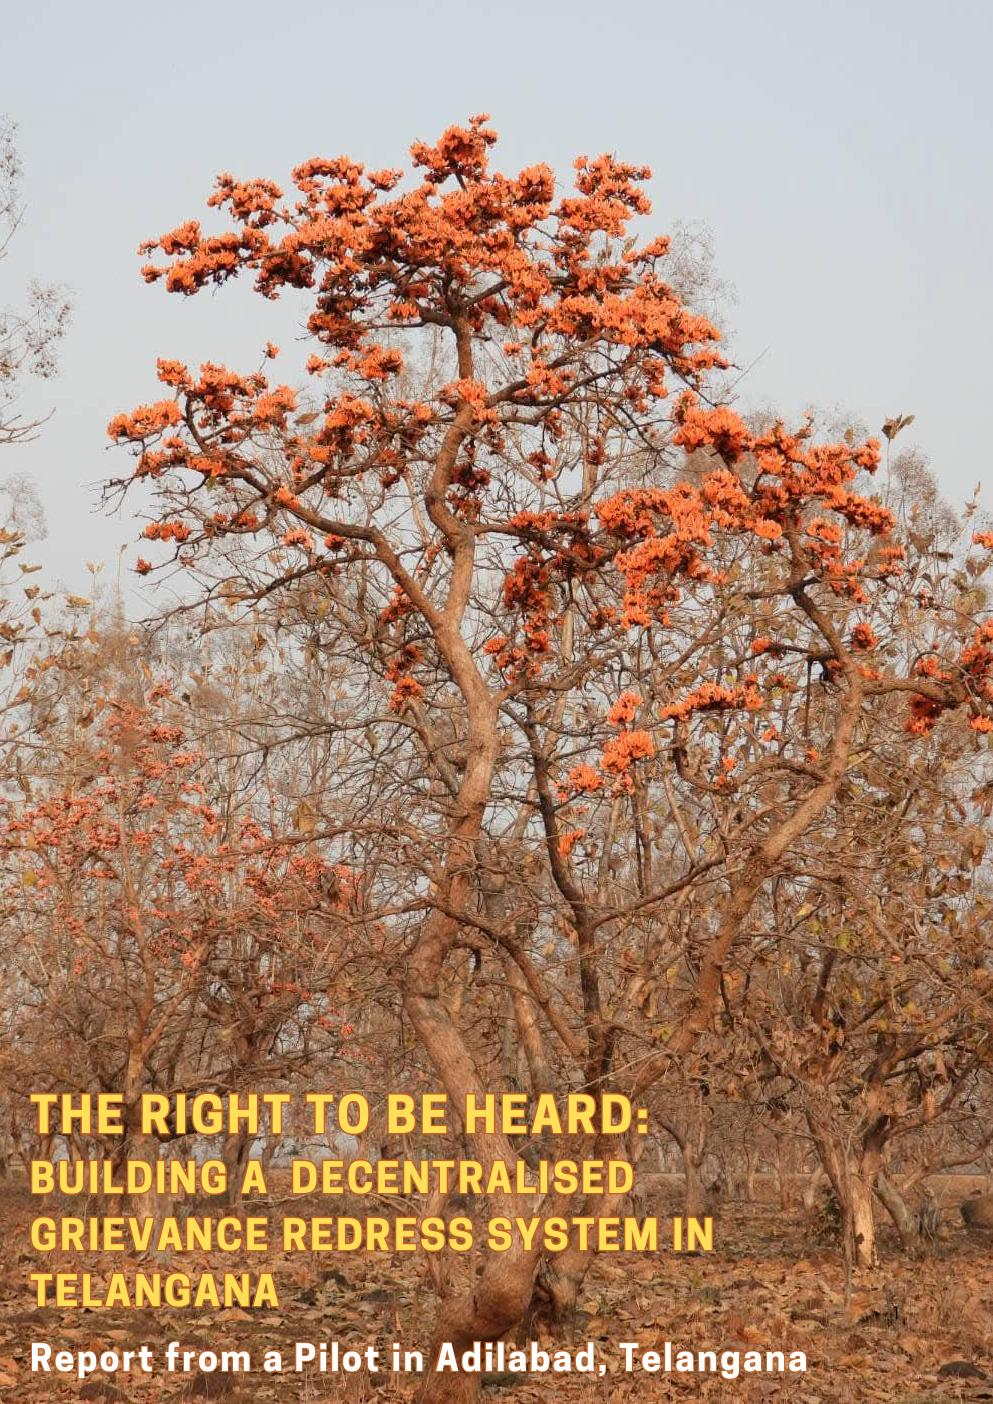
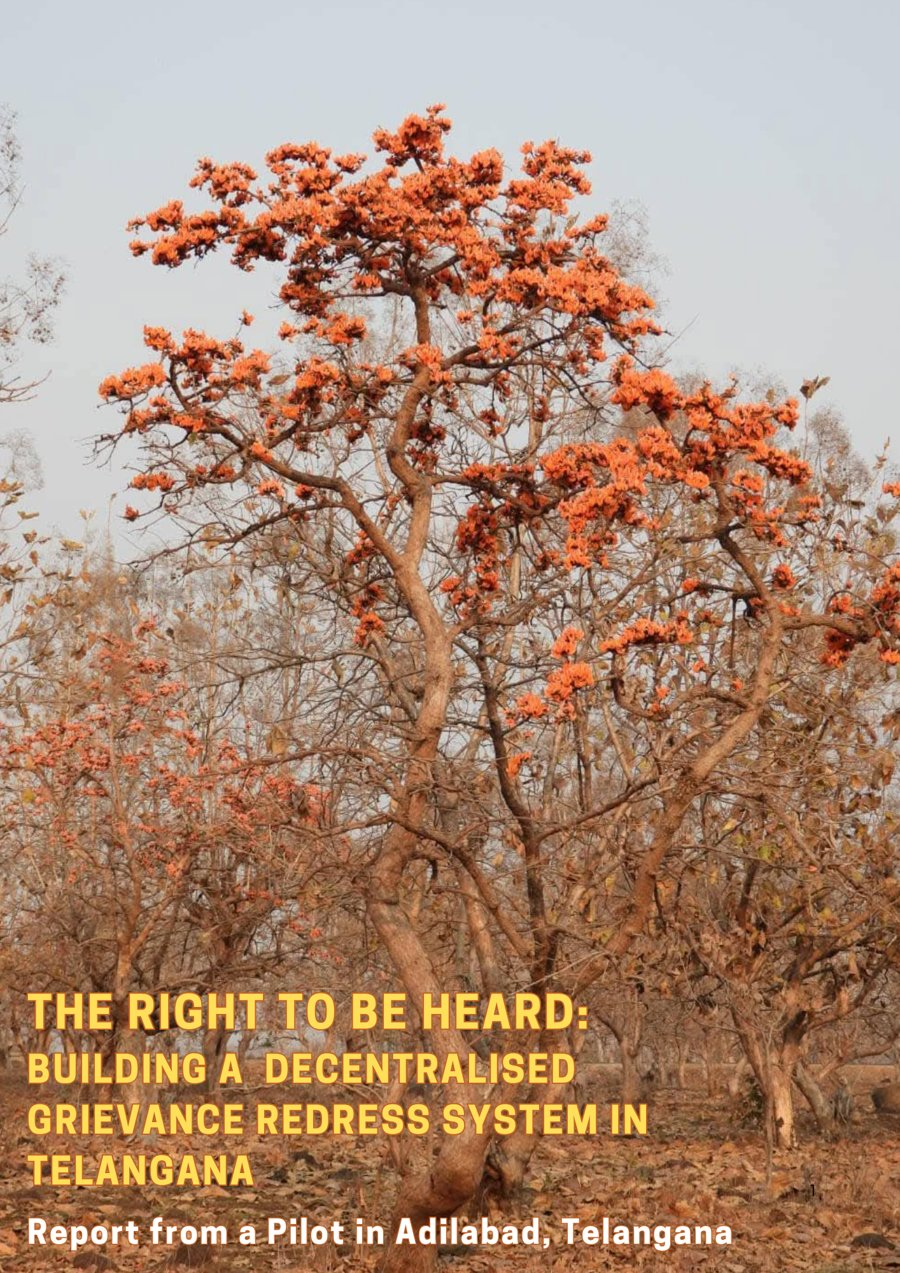
Wire actual documentary film and use higher-resolution cover
- Replace cover thumbnail with the user-supplied 900x1273 cover image
- Update hero film card to link directly to the Vimeo film, with a
  "Watch" badge replacing the previous "Forthcoming" placeholder
- Embed the Vimeo player inline in the Documentary section so visitors
  can watch on the page
- Add Telugu translations for the Documentary section copy

https://claude.ai/code/session_018L69ZJTUx8SAC7S99xY6T9

diff --git a/app-closing.jsx b/app-closing.jsx
@@ -7,14 +7,14 @@ function Documentary() {
   return (
     <section id="documentary" data-screen-label="14 Documentary" style={SS.section(C.navy)}>
       <div style={SS.container}>
-        <div style={{ display:'grid', gridTemplateColumns:'1fr 1.2fr', gap:48, alignItems:'center' }}>
+        <div style={{ display:'grid', gridTemplateColumns:'repeat(auto-fit, minmax(300px, 1fr))', gap:48, alignItems:'center' }}>
           <div>
-            <div style={{ fontFamily:"'Source Sans 3',sans-serif", fontSize:11, fontWeight:700, letterSpacing:'0.15em', textTransform:'uppercase', color:C.amberLight, marginBottom:12 }}>Forthcoming</div>
-            <h2 style={{ fontFamily:"'Libre Baskerville',serif", fontSize:32, fontWeight:700, color:C.white, lineHeight:1.2, marginBottom:16 }}>Documentary Film</h2>
+            <div style={{ fontFamily:"'Source Sans 3',sans-serif", fontSize:11, fontWeight:700, letterSpacing:'0.15em', textTransform:'uppercase', color:C.amberLight, marginBottom:12 }}>{t('Now streaming', 'ఇప్పుడు ప్రసారం')}</div>
+            <h2 style={{ fontFamily:"'Libre Baskerville',serif", fontSize:32, fontWeight:700, color:C.white, lineHeight:1.2, marginBottom:16 }}>{t('Documentary Film', 'డాక్యుమెంటరీ చిత్రం')}</h2>
             <p style={{ fontFamily:"'Source Sans 3',sans-serif", fontSize:17, color:'rgba(255,255,255,0.65)', lineHeight:1.7, marginBottom:24 }}>
-              A documentary on the Adilabad Prajavani pilot — the citizens behind the grievances, the officers who responded, and what happens when accountability becomes a public act.
+              {t('A documentary on the Adilabad Prajavani pilot — the citizens behind the grievances, the officers who responded, and what happens when accountability becomes a public act.', 'ఆదిలాబాద్ ప్రజావాణి పైలట్పై ఒక డాక్యుమెంటరీ — ఫిర్యాదుల వెనుక ఉన్న పౌరులు, ప్రతిస్పందించిన అధికారులు, మరియు జవాబుదారీతనం ఒక బహిరంగ చర్యగా మారినప్పుడు ఏం జరుగుతుందో.')}
             </p>
-            <div style={{ fontFamily:"'Source Sans 3',sans-serif", fontSize:14, color:'rgba(255,255,255,0.4)', marginBottom:8 }}>Produced by</div>
+            <div style={{ fontFamily:"'Source Sans 3',sans-serif", fontSize:14, color:'rgba(255,255,255,0.4)', marginBottom:8 }}>{t('Produced by', 'నిర్మాత')}</div>
             <a href="https://vimeo.com/dilmayafilms" target="_blank" rel="noopener noreferrer" style={{ fontFamily:"'Libre Baskerville',serif", fontSize:18, fontWeight:700, color:C.amberLight, textDecoration:'none', display:'inline-flex', alignItems:'center', gap:8 }}>
               Dilmaya Films
               <svg width="14" height="14" viewBox="0 0 24 24" fill="none" stroke="currentColor" strokeWidth="2" strokeLinecap="round" strokeLinejoin="round"><path d="M18 13v6a2 2 0 01-2 2H5a2 2 0 01-2-2V8a2 2 0 012-2h6"/><polyline points="15 3 21 3 21 9"/><line x1="10" y1="14" x2="21" y2="3"/></svg>
@@ -22,12 +22,14 @@ function Documentary() {
             <div style={{ fontFamily:"'Source Sans 3',sans-serif", fontSize:13, color:'rgba(255,255,255,0.3)', marginTop:6 }}>vimeo.com/dilmayafilms</div>
           </div>
 
-          <div style={{ background:'rgba(255,255,255,0.04)', border:'1px solid rgba(255,255,255,0.1)', borderRadius:6, aspectRatio:'16/9', display:'flex', flexDirection:'column', alignItems:'center', justifyContent:'center', gap:14 }}>
-            <div style={{ width:64, height:64, background:'rgba(196,125,46,0.15)', borderRadius:'50%', display:'flex', alignItems:'center', justifyContent:'center', cursor:'pointer', transition:'all 0.2s' }}>
-              <svg width="24" height="24" viewBox="0 0 24 24" fill="#f0a84a"><polygon points="6 4 20 12 6 20"/></svg>
-            </div>
-            <div style={{ fontFamily:"'Source Sans 3',sans-serif", fontSize:14, color:'rgba(255,255,255,0.55)', textAlign:'center' }}>Documentary in production</div>
-            <div style={{ fontFamily:"'Source Sans 3',sans-serif", fontSize:11, color:'rgba(255,255,255,0.25)', textAlign:'center' }}>Produced by Dilmaya Films</div>
+          <div style={{ position:'relative', borderRadius:6, overflow:'hidden', aspectRatio:'16/9', background:'#000', boxShadow:'0 10px 40px rgba(0,0,0,0.4)' }}>
+            <iframe
+              src="https://player.vimeo.com/video/1193479823?h=07fbef35c3&title=0&byline=0&portrait=0"
+              style={{ position:'absolute', inset:0, width:'100%', height:'100%', border:0 }}
+              allow="autoplay; fullscreen; picture-in-picture"
+              allowFullScreen
+              title="Documentary — Stories from Adilabad"
+            />
           </div>
         </div>
       </div>

diff --git a/index.html b/index.html
@@ -400,17 +400,17 @@
         <div style="margin-top:4px; font-family:'Source Sans 3',sans-serif; font-size:12px; color:rgba(255,255,255,0.5);"><span class="i18n" data-en="88 pages · Click to download" data-te="88 పేజీలు · డౌన్లోడ్ చేయండి">88 pages · Click to download</span></div>
       </a>
 
-      <a href="#documentary" style="display:block; width:340px; max-width:100%; text-decoration:none; color:inherit;">
+      <a href="https://vimeo.com/1193479823/07fbef35c3" target="_blank" rel="noopener noreferrer" style="display:block; width:340px; max-width:100%; text-decoration:none; color:inherit;">
         <div style="position:relative; border-radius:4px; overflow:hidden; box-shadow:0 8px 28px rgba(0,0,0,0.4); border:1px solid rgba(255,255,255,0.08); aspect-ratio:16/9; background:linear-gradient(135deg, #1a3a5c 0%, #0d2137 60%, #1f1208 100%); display:flex; align-items:center; justify-content:center; transition:transform 0.2s;" onmouseover="this.style.transform='translateY(-2px)'" onmouseout="this.style.transform='translateY(0)'">
-          <div style="position:absolute; inset:0; background:radial-gradient(circle at 30% 40%, rgba(196,125,46,0.25) 0%, transparent 55%);"></div>
-          <div style="position:relative; width:64px; height:64px; background:rgba(240,168,74,0.92); border-radius:50%; display:flex; align-items:center; justify-content:center; box-shadow:0 4px 18px rgba(240,168,74,0.4);">
-            <svg width="22" height="22" viewBox="0 0 24 24" fill="#0d2137" style="margin-left:3px;"><polygon points="6 4 20 12 6 20"/></svg>
+          <div style="position:absolute; inset:0; background:radial-gradient(circle at 30% 40%, rgba(196,125,46,0.3) 0%, transparent 55%);"></div>
+          <div style="position:relative; width:72px; height:72px; background:rgba(240,168,74,0.95); border-radius:50%; display:flex; align-items:center; justify-content:center; box-shadow:0 6px 22px rgba(240,168,74,0.45);">
+            <svg width="26" height="26" viewBox="0 0 24 24" fill="#0d2137" style="margin-left:3px;"><polygon points="6 4 20 12 6 20"/></svg>
           </div>
-          <div style="position:absolute; top:10px; right:10px; background:rgba(255,255,255,0.12); color:#fff; font-family:'Source Sans 3',sans-serif; font-size:10px; font-weight:700; letter-spacing:0.08em; text-transform:uppercase; padding:5px 9px; border-radius:3px; backdrop-filter:blur(4px);"><span class="i18n" data-en="Forthcoming" data-te="రాబోతుంది">Forthcoming</span></div>
+          <div style="position:absolute; top:10px; right:10px; background:#f0a84a; color:#0d2137; font-family:'Source Sans 3',sans-serif; font-size:10px; font-weight:700; letter-spacing:0.08em; text-transform:uppercase; padding:5px 9px; border-radius:3px;">▶ <span class="i18n" data-en="Watch" data-te="చూడండి">Watch</span></div>
         </div>
         <div style="margin-top:12px; font-family:'Source Sans 3',sans-serif; font-size:10px; font-weight:700; letter-spacing:0.12em; text-transform:uppercase; color:#f0a84a;"><span class="i18n" data-en="Documentary film" data-te="డాక్యుమెంటరీ చిత్రం">Documentary film</span></div>
         <div style="margin-top:4px; font-family:'Libre Baskerville',serif; font-size:14px; font-weight:700; color:#fff; line-height:1.35;"><span class="i18n" data-en="Stories from Adilabad" data-te="ఆదిలాబాద్ నుండి కథలు">Stories from Adilabad</span></div>
-        <div style="margin-top:4px; font-family:'Source Sans 3',sans-serif; font-size:12px; color:rgba(255,255,255,0.5);"><span class="i18n" data-en="Dilmaya Films · Watch trailer →" data-te="దిల్మాయ ఫిల్మ్స్ · ట్రైలర్ చూడండి →">Dilmaya Films · Watch trailer →</span></div>
+        <div style="margin-top:4px; font-family:'Source Sans 3',sans-serif; font-size:12px; color:rgba(255,255,255,0.5);"><span class="i18n" data-en="Dilmaya Films · Watch on Vimeo →" data-te="దిల్మాయ ఫిల్మ్స్ · వీమియోలో చూడండి →">Dilmaya Films · Watch on Vimeo →</span></div>
       </a>
     </div>
 
